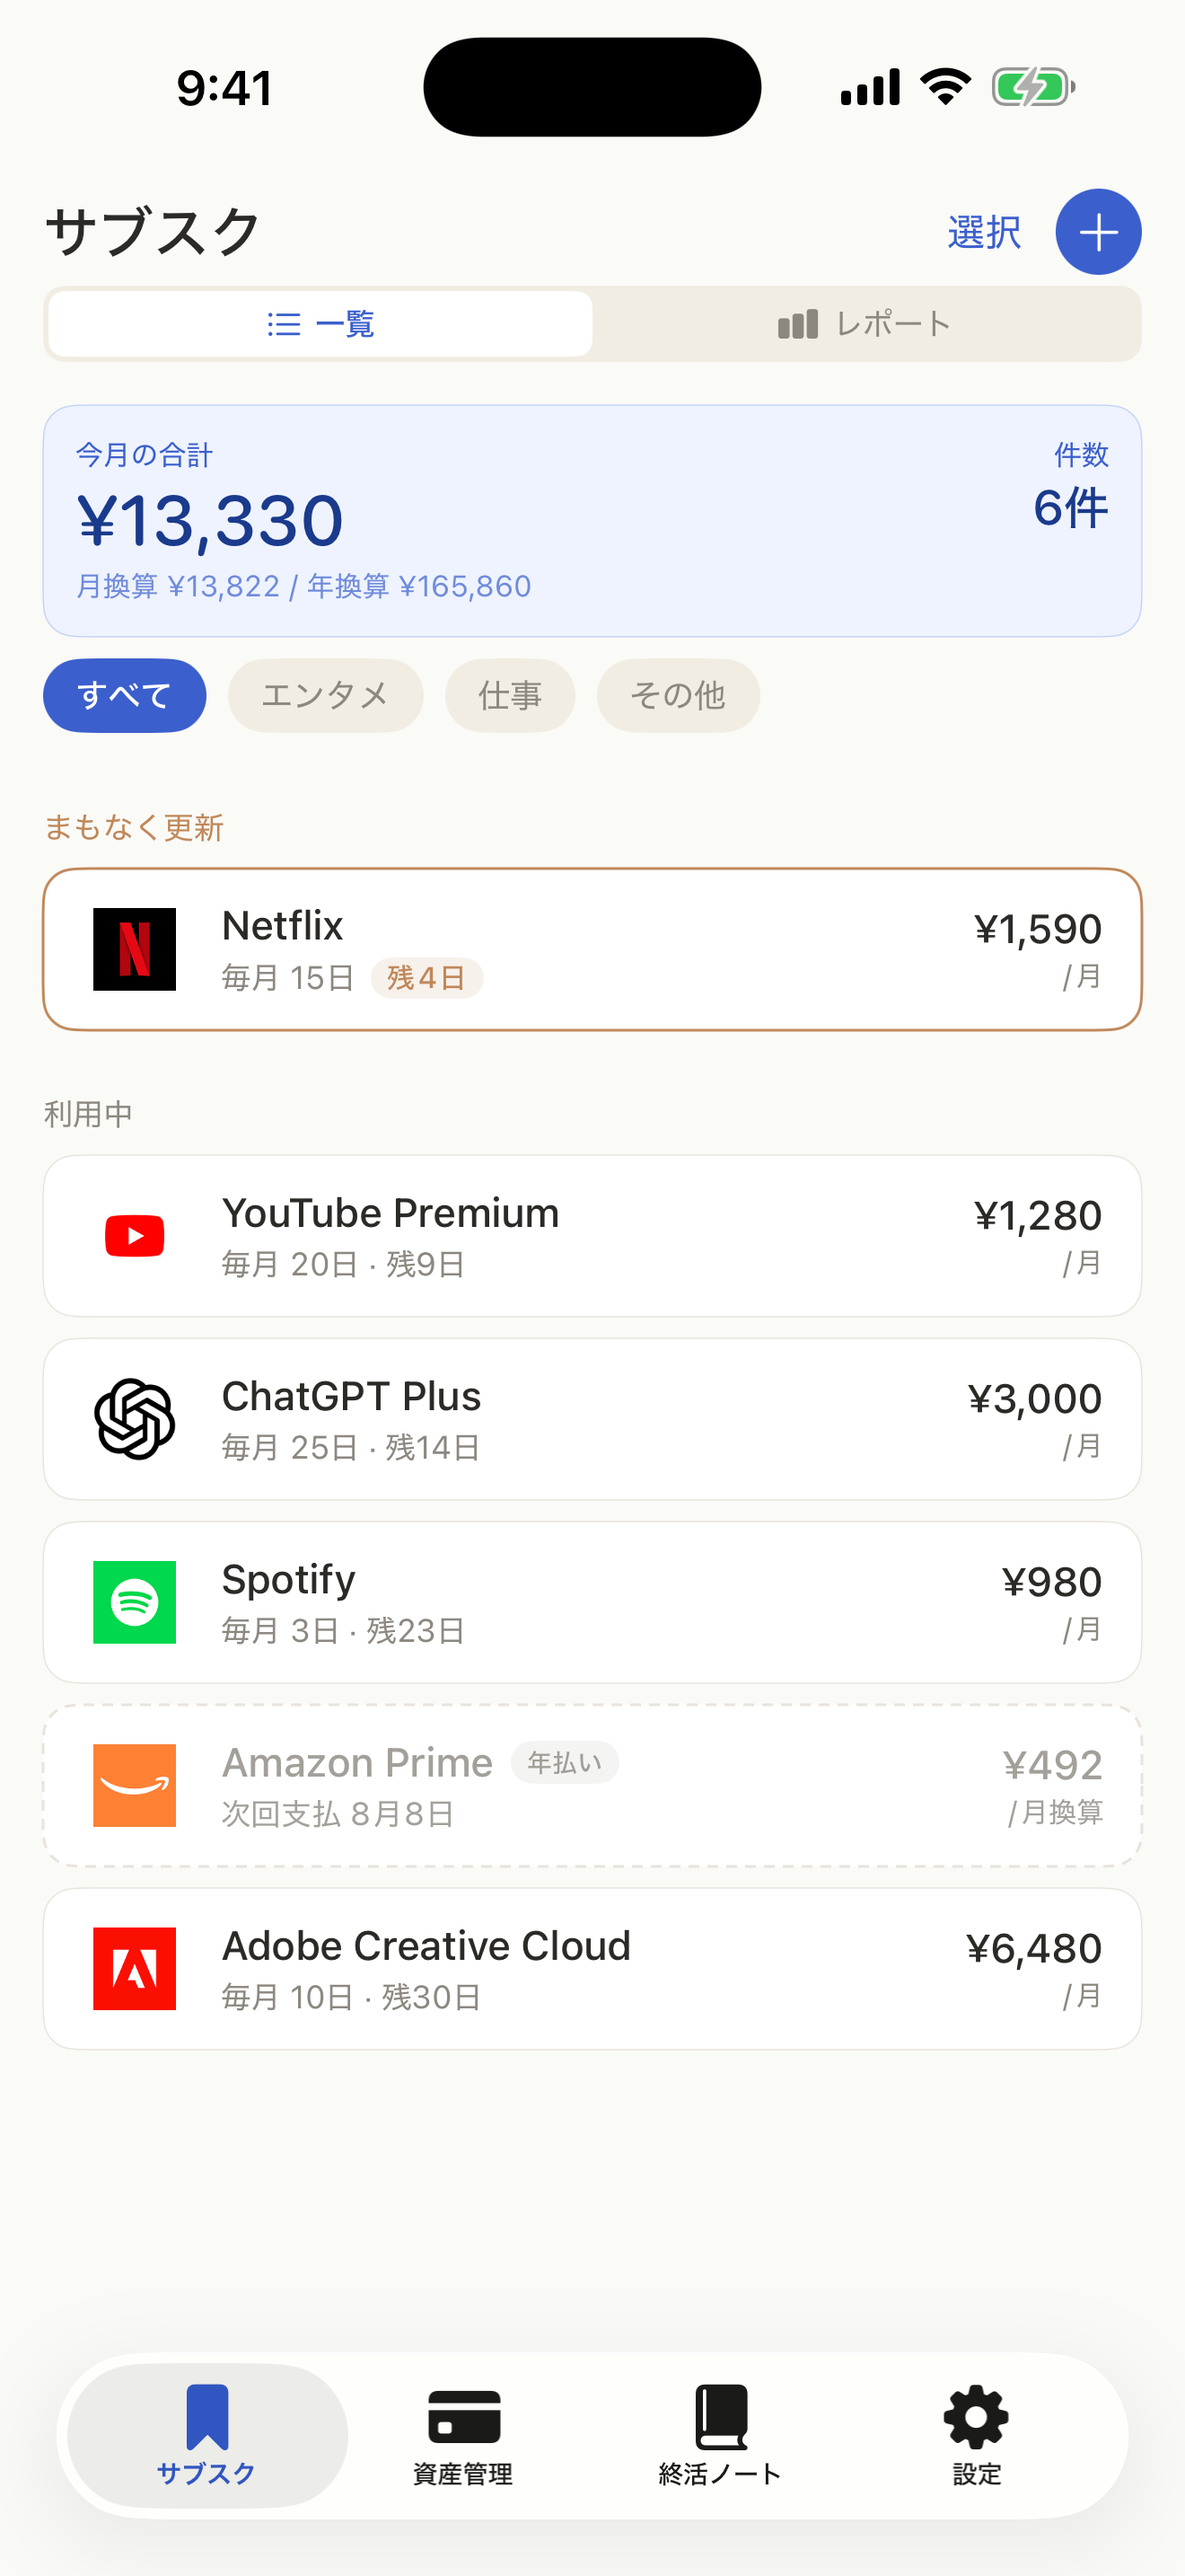
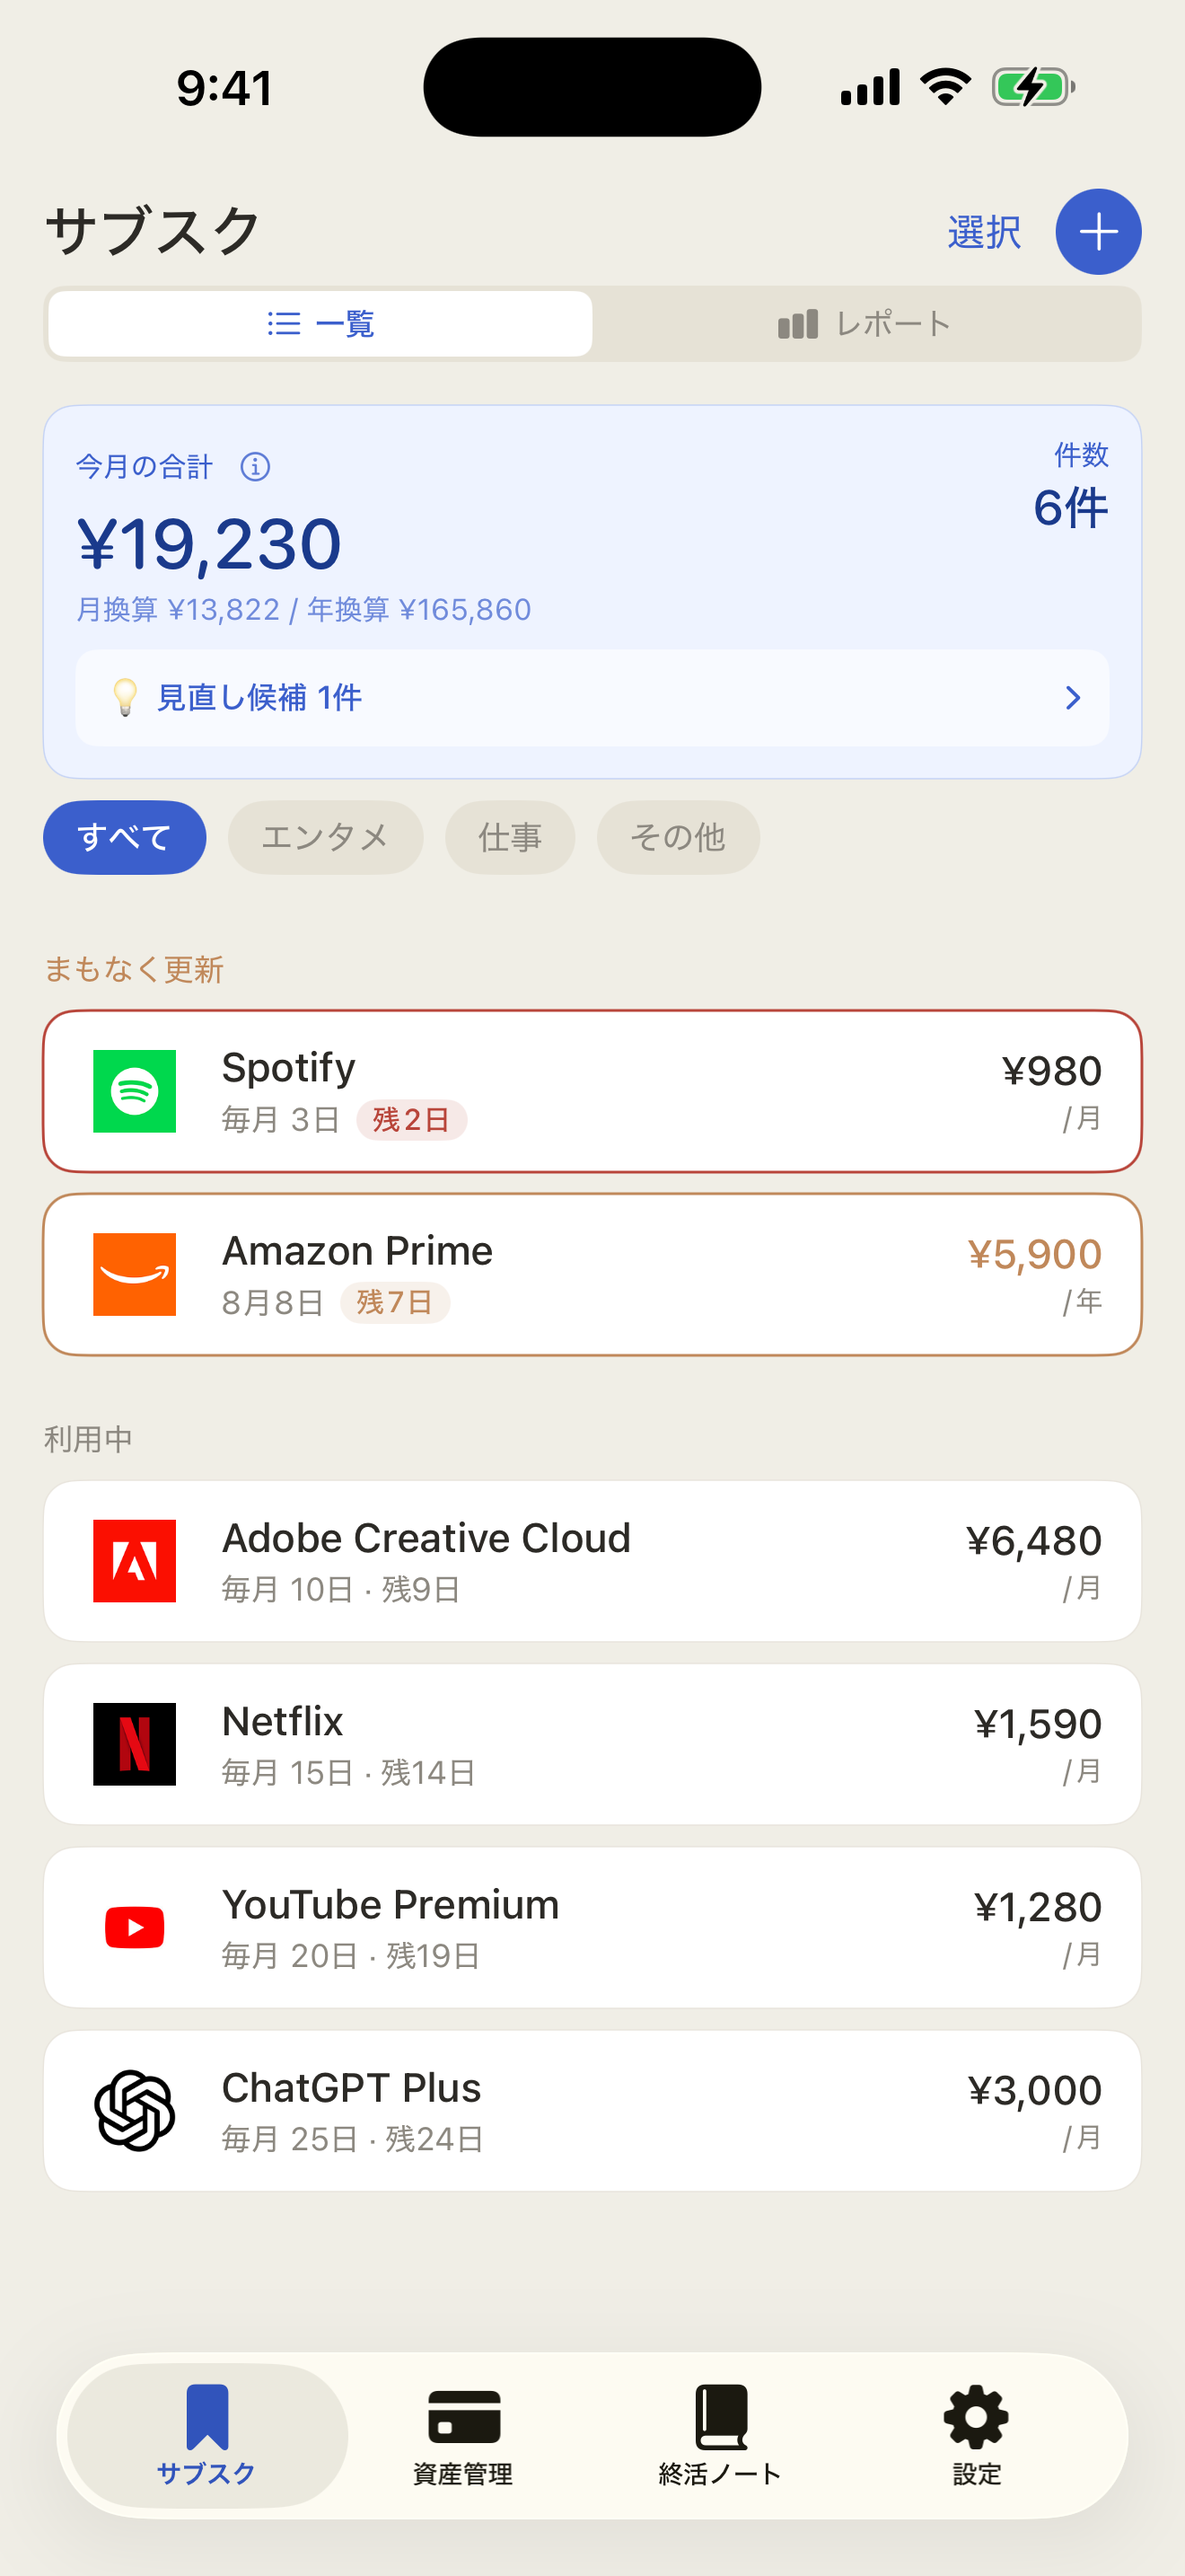
feat(site): build 15反映＝月次まとめ・新ウィジェットの訴求追加＋全スクショ現行ビルド化（Kentaro承認）
- features: 新セクション #monthly-summary「毎月1日、まとめが届く。」/ #widget「ホーム画面で、見張れる。」
- 事実是正: 「解約した分の節約額を自動集計」(未実装の誇張)→見直し候補＋年間節約額提示に
- manual: レポート節に先月のまとめ step4・通知表更新・ウィジェット節を新デザイン文言に
- index: スマート通知カードに先月まとめ追記
- images: ss_* 7枚差替＋新規2枚(monthly_summary/widgets_home)・img/manual 3枚差替

Changed region(s): [[0.0311, 0.1552, 0.9629, 0.8379]]

diff --git a/features.html b/features.html
@@ -525,7 +525,7 @@
       </div>
       <div class="feature-point">
         <div class="feature-point-dot" style="background: var(--indigo);"></div>
-        <span>解約した分の「節約できた金額」を自動で集計</span>
+        <span>使っていないサブスクは「見直し候補」に。解約した場合の年間節約額を提示</span>
       </div>
       <div class="feature-point">
         <div class="feature-point-dot" style="background: var(--indigo);"></div>
@@ -533,7 +533,7 @@
       </div>
       <div class="feature-point">
         <div class="feature-point-dot" style="background: var(--indigo);"></div>
-        <span>ホーム画面ウィジェットで合計をひと目に。初回は「はじめる準備」で迷わず設定</span>
+        <span>ホーム画面ウィジェットで支払いの進捗をひと目に。初回は「はじめる準備」で迷わず設定</span>
       </div>
     </div>
   </div>
@@ -584,6 +584,70 @@
 
 <div class="section-divider"></div>
 
+<!-- 機能2.5: 月次まとめ -->
+<section class="feature-section" id="monthly-summary">
+  <div class="feature-text">
+    <span class="feature-label indigo">📅 先月のまとめ</span>
+    <h2>毎月1日、<br>まとめが届く。</h2>
+    <p>月が変わると「先月のサブスクレポート」を通知でお届け。タップすると、先月1ヶ月の支払いを1画面で振り返れます。金額の羅列ではなく、「なぜ増えたのか」「どこを見直せるか」まで教えてくれます。</p>
+    <div class="feature-points">
+      <div class="feature-point">
+        <div class="feature-point-dot" style="background: var(--indigo);"></div>
+        <span>支払い合計と前月比。増減の理由をサブスク別に短く説明</span>
+      </div>
+      <div class="feature-point">
+        <div class="feature-point-dot" style="background: var(--indigo);"></div>
+        <span>新規・解約・金額変更・年払いなど、その月の出来事をひとまとめに</span>
+      </div>
+      <div class="feature-point">
+        <div class="feature-point-dot" style="background: var(--indigo);"></div>
+        <span>「使ってない」のに支払ったサブスクは、見直しのヒントとして提示</span>
+      </div>
+      <div class="feature-point">
+        <div class="feature-point-dot" style="background: var(--indigo);"></div>
+        <span>いまのペースで年間いくらになるかも表示。レポートの過去月からいつでも見返せます</span>
+      </div>
+    </div>
+  </div>
+  <div class="phone-wrap">
+    <div class="phone-img-wrap">
+      <img src="images/ss_monthly_summary.png" alt="月次まとめ画面。支払い合計・カテゴリ内訳・見直しのヒント・年間換算" loading="lazy">
+    </div>
+  </div>
+</section>
+
+<div class="section-divider"></div>
+
+<!-- 機能2.6: ウィジェット -->
+<section class="feature-section reverse" id="widget">
+  <div class="feature-text">
+    <span class="feature-label terra">📱 ウィジェット</span>
+    <h2>ホーム画面で、<br>見張れる。</h2>
+    <p>アプリを開かなくても、ホーム画面のウィジェットが今月の支払いを見張ってくれます。</p>
+    <div class="feature-points">
+      <div class="feature-point">
+        <div class="feature-point-dot" style="background: var(--terra);"></div>
+        <span>中サイズは今月の合計と支払いの進捗バー、次の支払いまで表示</span>
+      </div>
+      <div class="feature-point">
+        <div class="feature-point-dot" style="background: var(--terra);"></div>
+        <span>小サイズは次の支払いにフォーカス。サービス名・金額・あと何日かをひと目で</span>
+      </div>
+      <div class="feature-point">
+        <div class="feature-point-dot" style="background: var(--terra);"></div>
+        <span>金額を伏せる設定にも対応。人に見られても安心</span>
+      </div>
+    </div>
+  </div>
+  <div class="phone-wrap">
+    <div class="phone-img-wrap">
+      <img src="images/ss_widgets_home.png" alt="ホーム画面のKeepyウィジェット。今月の合計・進捗と次の支払い" loading="lazy">
+    </div>
+  </div>
+</section>
+
+<div class="section-divider"></div>
+
 <!-- 機能3: 通知 -->
 <section class="feature-section" id="notifications">
   <div class="feature-text">
@@ -605,7 +669,7 @@
       </div>
       <div class="feature-point">
         <div class="feature-point-dot" style="background: var(--amber);"></div>
-        <span>毎月1日に月次レポート・毎年1月1日に年間レポート</span>
+        <span>毎月1日に「先月のまとめ」・毎年1月1日に年間レポート。タップでレポート画面へ</span>
       </div>
     </div>
   </div>

diff --git a/manual.html b/manual.html
@@ -477,6 +477,13 @@
           <p>チェックインで「使ってない」と答えたサブスクが、<strong>解約した場合の年間節約額</strong>つきで並びます。その場で「解約する」（記録）か「まだ使う」を選べます。</p>
         </div>
       </div>
+      <div class="step">
+        <div class="step-num">4</div>
+        <div class="step-body">
+          <h3>先月のまとめ（毎月1日）</h3>
+          <p>毎月1日の朝に「先月のサブスクレポート」の通知が届き、タップすると先月のまとめが開きます。<strong>支払い合計と前月比・増減の理由・その月の出来事・見直しのヒント・年間換算</strong>を1画面で振り返れます。レポートで過去の月を選び「この月のまとめを見る」からも、いつでも開けます。</p>
+        </div>
+      </div>
     </div>
       <div class="phone"><img src="img/manual/report.png" width="750" height="1629" loading="lazy" alt="レポート画面。支出推移グラフ・支払済み/予定/合計・見直し候補・月の支払い一覧"></div>
     </div>
@@ -569,7 +576,7 @@
         <tr><td>金額変更</td><td>予告した変更日の14日前</td></tr>
         <tr><td>縛り期間の終了</td><td>60日前と当日</td></tr>
         <tr><td>モノ・書類の期限</td><td>3ヶ月前と当日</td></tr>
-        <tr><td>月次レポート</td><td>毎月1日の朝</td></tr>
+        <tr><td>月次レポート（先月のまとめ）</td><td>毎月1日の朝。タップするとレポート画面で先月のまとめが開きます</td></tr>
         <tr><td>年間レポート</td><td>毎年1月1日の朝</td></tr>
         <tr><td>実績入力（外貨）</td><td>請求日の翌日</td></tr>
         <tr><td>バックアップが古い</td><td>前回から30日経過</td></tr>
@@ -587,7 +594,7 @@
         <div class="step-num">1</div>
         <div class="step-body">
           <h3>ホーム画面を長押し → 「＋」→ Keepy</h3>
-          <p>小サイズは<strong>今月の合計と今日の支払い</strong>、中サイズは<strong>今日の支払いを最大3件</strong>表示します。</p>
+          <p>中サイズは<strong>今月の合計・支払いの進捗バー・次の支払い</strong>を、小サイズは<strong>次の支払い（サービス名・金額・あと何日か）</strong>を表示します。設定 → 通知設定の「<strong>通知に金額・サービス名を出さない</strong>」をオンにすると、ウィジェットの表示も伏字になります。</p>
         </div>
       </div>
     </div>

diff --git a/index.html b/index.html
@@ -352,7 +352,7 @@
             <svg width="20" height="20" viewBox="0 0 24 24" fill="none" stroke="#C0885A" stroke-width="1.8" stroke-linecap="round" stroke-linejoin="round"><path d="M18 8A6 6 0 0 0 6 8c0 7-3 9-3 9h18s-3-2-3-9"/><path d="M13.73 21a2 2 0 0 1-3.46 0"/></svg>
           </div>
           <h3>スマート通知</h3>
-          <p>無料トライアル終了・縛り解除・有効期限・90日以上使っていないサービスを事前にお知らせ。</p>
+          <p>無料トライアル終了・縛り解除・有効期限・90日以上使っていないサービスを事前にお知らせ。毎月1日には「先月のまとめ」も届きます。</p>
         </div>
       </div>
     </div>
